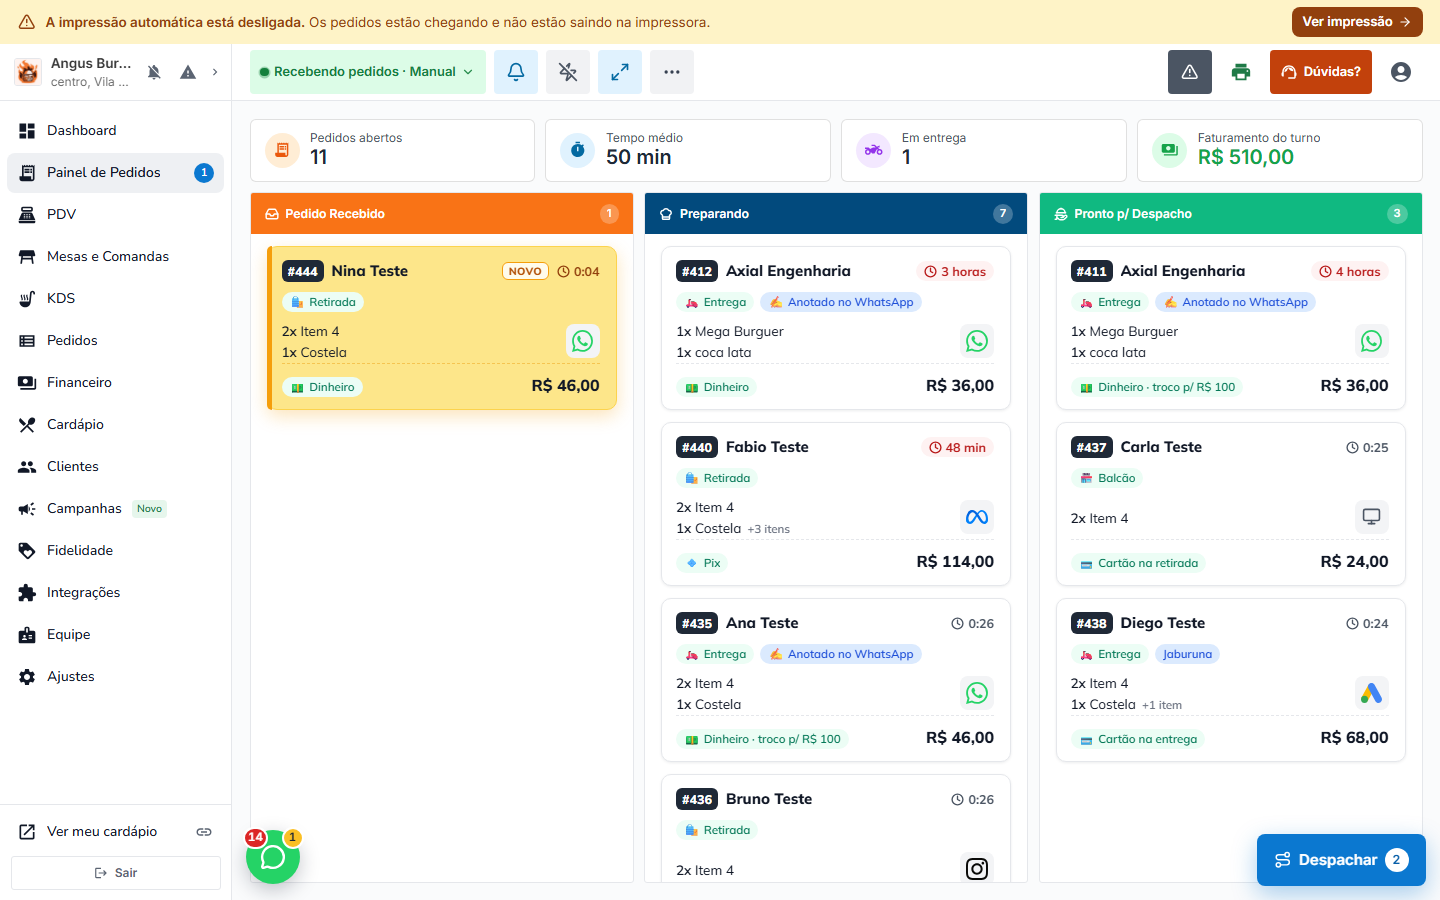
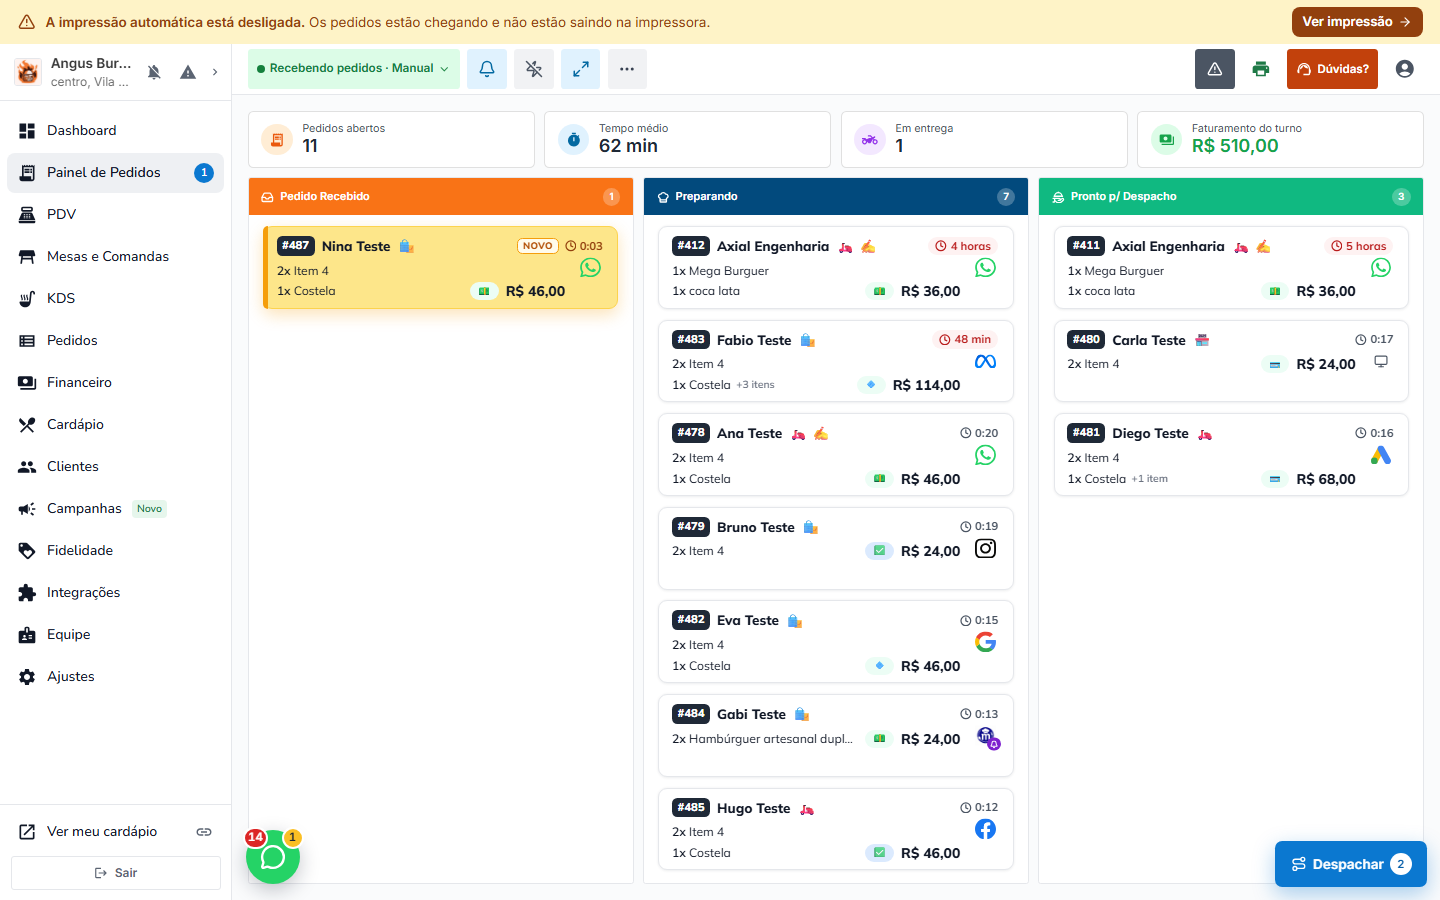
docs(kanban): relatório e prints do v3 compacto (90%, card fino, painel reorganizado)

diff --git a/docs/relatorios/2026-10-15-kanban-v3.md b/docs/relatorios/2026-10-15-kanban-v3.md
@@ -52,3 +52,19 @@ Referência: `Card do pedido · padrão Menuzia@1x.png` (Downloads). Os arquivos
 ## Para liberar para todas as lojas
 
 Trocar a condição `cardsNovos = useEstadoSessao()?.novidades === true` em `app/admin/pedidos/page.tsx`.
+
+## Ajuste do dono (15/10, mais tarde) — 2c9d033b, 94445169, 61fb499f
+
+- **Tela do Kanban em 90%** (`zoom: 0.9` só no wrapper da página, só com o v3; as outras telas e as outras lojas não mudam).
+- **Card fino, 92px** (antes 164px): tipo como ícone ao lado do nome (+ ✍ da IA e 🗓 do agendado), sem a linha de selos;
+  preço na linha do último item com **só o ícone** da forma de pagamento à esquerda (texto completo no tooltip e no painel);
+  logo da origem **sem fundo**, centralizado na altura do card inteiro e fora do fluxo (não rouba espaço do nome).
+  O bairro saiu do card e fica no painel.
+- **Painel reorganizado**: tags e horário numa linha só; **observações em vermelho com fundo vermelho** no topo
+  (todas juntas, com o item de cada uma); **cliente e entrega lado a lado** (Conversar, Mapa, Copiar, motoboy); itens e
+  totais compactos; pagamento numa linha com o troco embaixo; histórico recolhido; **todas as ações numa linha**
+  (próxima ação · Reimprimir · Cancelar). O "Despachar" flutuante vai para a esquerda do painel aberto.
+- E2E de novo na Menuzia: **46/46 ok** (novas checagens: zoom 90% só no Kanban, ícone do tipo ao lado do nome, logo sem
+  fundo e centralizado, preço na linha do último item em card de 1 e de 2 itens, tags e ações numa linha, observações em
+  vermelho, cliente e entrega lado a lado, painel sem rolagem no pedido comum). Pedidos de teste #446–#488 fechados como
+  "Não entregue" (rodadas com 2 checagens de medida que corrigi no teste: borda de 1px vira 1,11px com o zoom).
